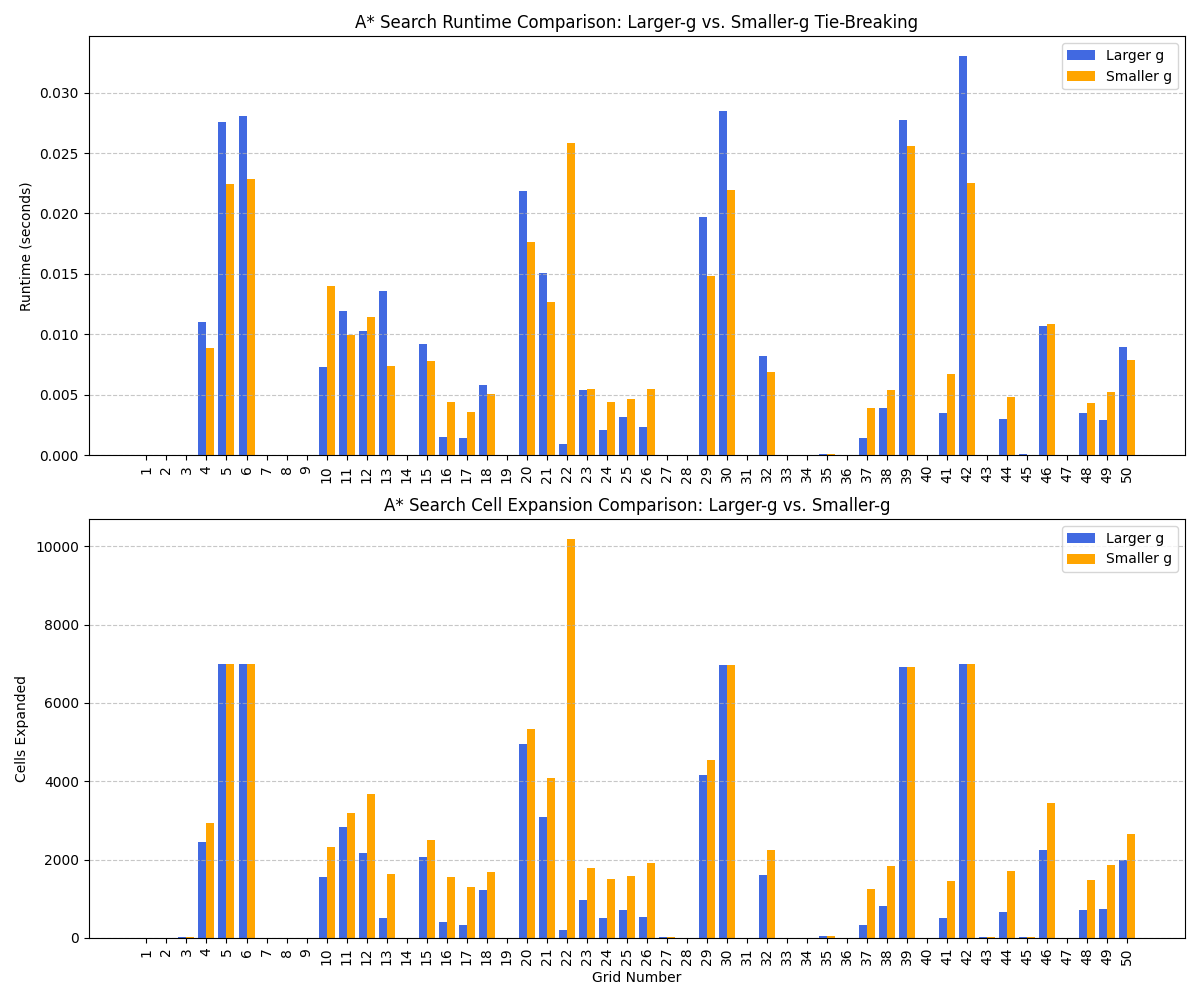
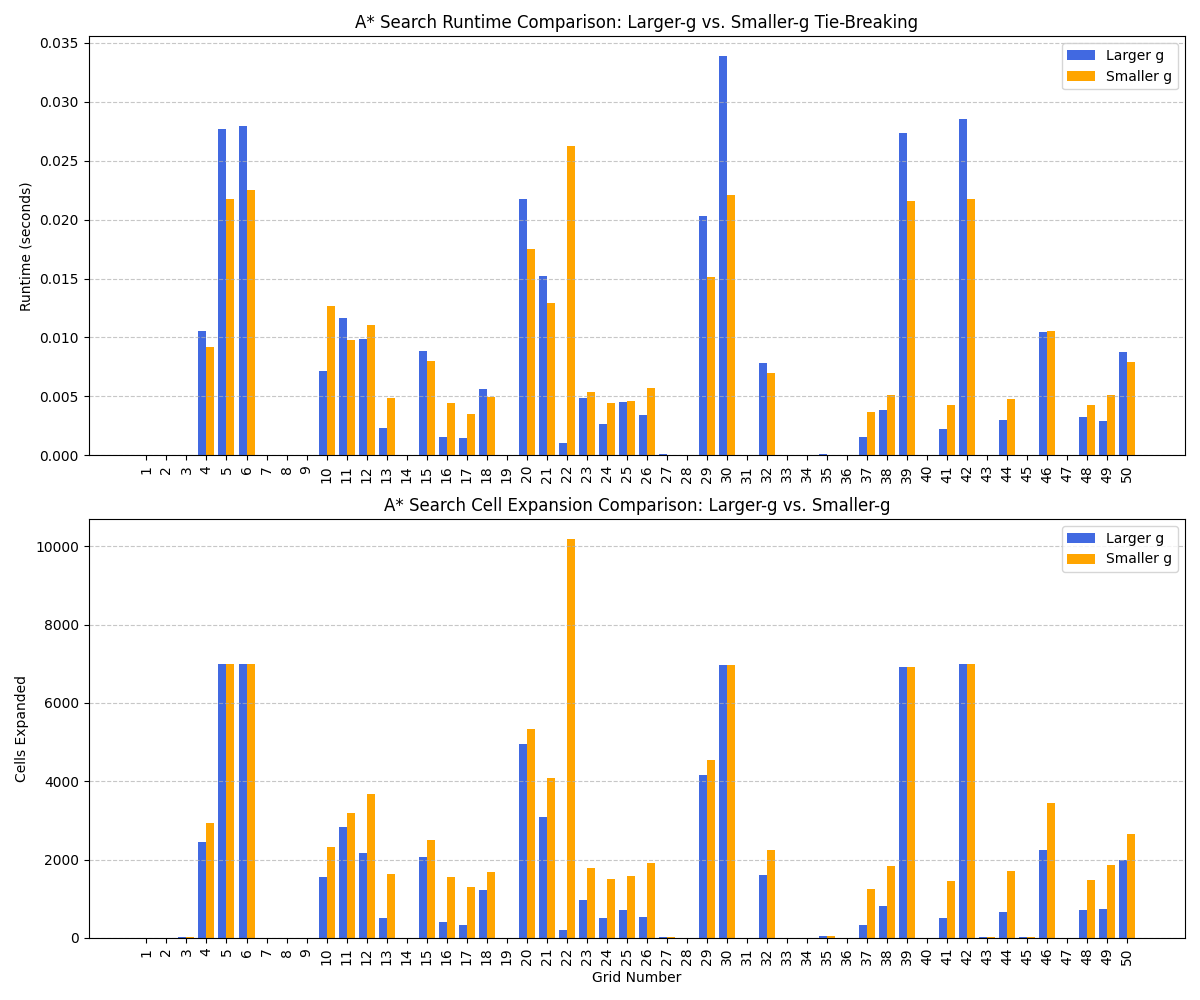
small changes

diff --git a/src/NewAStar.py b/src/NewAStar.py
@@ -78,36 +78,30 @@ def compute_path(open_list, closed_list, cells, end_cell, track_explored, counte
                     
     return expanded
 
-def AStar_main(grid, start, end, larger_g = True, track_explored = None):
-    # if the start and end are the same point
-    if start[0] == end[0] and start[1] == end[1]: 
+def AStar_main(grid, start, end, larger_g=True, track_explored=None):
+    if start == end:
         print("Start and goal are the same. Shortest path = 0.")
         return [start], 0, 0
     
-    # if starting cell is initially blocked
+    # If start is blocked, find nearest unblocked cell
     if grid[start[0]][start[1]] == 1: 
         print("Start cell is blocked, searching for nearest unblocked cell.")
         start = find_nearest_unblocked(grid, start)
-
         if not start: 
             print("No unblocked cell found.") 
             return None, 0, 0
-        else: 
-            print(f"Nearest unblocked cell found at {start}")
-        
+        print(f"Nearest unblocked cell found at {start}")
 
-    # if end cell is initially blocked
+    # If end is blocked, find nearest unblocked cell
     if grid[end[0]][end[1]] == 1: 
         print("End cell is blocked, searching for nearest unblocked cell.")
         end = find_nearest_unblocked(grid, end)
-
         if not end: 
             print("No unblocked cell found.") 
             return None, 0, 0
-        else: 
-            print(f"Nearest unblocked cell found at {end}")
+        print(f"Nearest unblocked cell found at {end}")
             
-    # initialize all unblocked cells before search starts
+    # Initialize unblocked cells
     rows, cols = len(grid), len(grid[0])
     cells = {
         (x, y): Cell(x, y, None, manhattan_distance((x, y), end), larger_g)
@@ -116,18 +110,21 @@ def AStar_main(grid, start, end, larger_g = True, track_explored = None):
     
     counter = 0
     expanded = 0
-    path = 0
+    path = None
     start_cell = cells[start]
     end_cell = cells[end]
     end_cell.g = float('inf')
     start_time = time.time()
+
     while end_cell.g == float('inf'):
         counter += 1
         
+        # Reset search counter
         start_cell.search = counter
         end_cell.g = float('inf')
         end_cell.search = counter
         
+        # Initialize open and closed lists
         open_list = MinBinaryHeap()
         closed_list = set()
         
@@ -139,15 +136,25 @@ def AStar_main(grid, start, end, larger_g = True, track_explored = None):
             return None, expanded, time.time() - start_time
         
         expanded = compute_path(open_list, closed_list, cells, end_cell, track_explored, counter, expanded)
-        
+            
         if end_cell.g == float('inf'):
             print("Cannot reach target cell")
             return None, expanded, time.time() - start_time
         
+        # **Move the agent forward using the updated heuristic**
+        next_cell = end_cell
+        while next_cell.parent is not None and next_cell != start_cell:
+            if next_cell.parent == start_cell:
+                break
+            next_cell = next_cell.parent
+
+        # **If the new cell is in open_list, continue search**
+        if open_list.contains(next_cell) or (next_cell.x, next_cell.y) in closed_list:
+            start_cell = next_cell  # Move the agent forward
+        else:
+            break  # Stop if no valid path exists
+    
     path = reconstruct_path(end_cell)
     
-        
-    
-    
-        
     return path, expanded, time.time() - start_time
+
